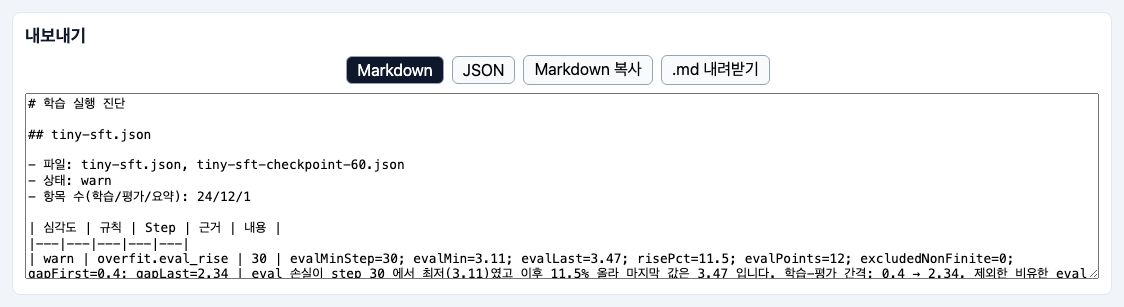
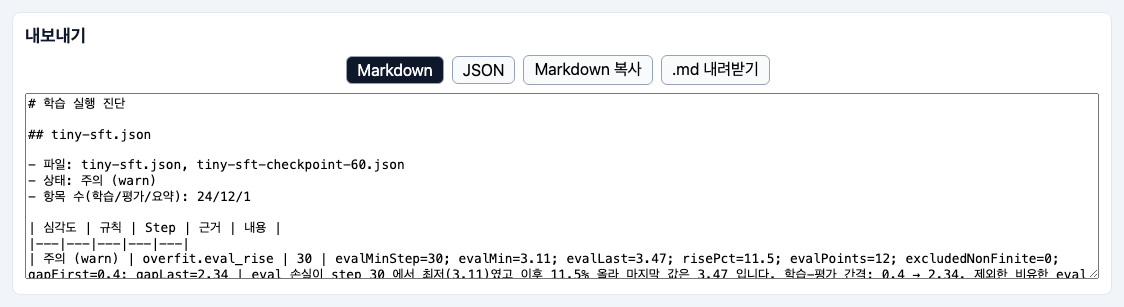
fix(report): localize severity labels in Korean Markdown export
Severity column and status line now match the on-screen badges, with the machine value in parentheses. README (both languages) documents the export format and the action field; bump to 0.1.3.

Changed region(s): [[0.0311, 0.8208, 0.9653, 0.9088], [0.0623, 0.557, 0.1557, 0.6156]]

diff --git a/tests/release.test.ts b/tests/release.test.ts
@@ -1,0 +1,44 @@
+import { readFileSync } from 'node:fs'
+import { describe, expect, it } from 'vitest'
+
+const read = (path: string): string => readFileSync(new URL(`../${path}`, import.meta.url), 'utf8')
+const pkg = JSON.parse(read('package.json')) as { version: string }
+const lock = JSON.parse(read('package-lock.json')) as { version: string; packages: Record<string, { version: string }> }
+const changelog = read('CHANGELOG.md')
+const headings = [...changelog.matchAll(/^## \[(\d+\.\d+\.\d+)\] - (\d{4}-\d{2}-\d{2})$/gm)]
+const versions = headings.map((m) => m[1])
+
+const cmp = (a: string, b: string): number => {
+  const [x, y] = [a.split('.').map(Number), b.split('.').map(Number)]
+  return x[0] - y[0] || x[1] - y[1] || x[2] - y[2]
+}
+
+describe('release alignment (AC-10)', () => {
+  it('package.json and package-lock.json carry the same version', () => {
+    expect(pkg.version).toMatch(/^\d+\.\d+\.\d+$/)
+    expect(lock.version).toBe(pkg.version)
+    expect(lock.packages[''].version).toBe(pkg.version)
+  })
+
+  it('the first CHANGELOG entry is the package version with a date', () => {
+    expect(versions[0]).toBe(pkg.version)
+  })
+
+  it('CHANGELOG versions are unique, descending and keep 0.1.2, 0.1.1, 0.1.0', () => {
+    expect(new Set(versions).size).toBe(versions.length)
+    expect([...versions].sort((a, b) => cmp(b, a))).toEqual(versions)
+    for (const v of ['0.1.2', '0.1.1', '0.1.0']) expect(versions).toContain(v)
+  })
+
+  it('README mentions of a version equal the package version', () => {
+    for (const file of ['README.md', 'README.ko.md']) {
+      const text = read(file)
+      const mentions = [...text.matchAll(/\bv(\d+\.\d+\.\d+)\b|trainer-state-lens@(\d+\.\d+\.\d+)/g)].map((m) => m[1] ?? m[2])
+      for (const m of mentions) expect(m, file).toBe(pkg.version)
+    }
+  })
+
+  it('keeps the security fix: the sample helper project is named make-samples', () => {
+    expect(read('tools/make-samples/pyproject.toml')).toMatch(/^name = "make-samples"$/m)
+  })
+})

diff --git a/src/core/report.ts b/src/core/report.ts
@@ -52,13 +52,18 @@ function cell(text: string): string {
   return text.replace(/\|/g, '\\|').replace(/\r?\n/g, ' ')
 }
 
+/** Severity or status label for Markdown: Korean adds the machine value in parentheses, English stays plain. */
+function severityLabel(lang: Lang, value: 'error' | 'warn' | 'info' | 'ok'): string {
+  return lang === 'ko' ? `${t(lang, `severity.${value}`)} (${value})` : value
+}
+
 /** Markdown export: one table per run (severity, rule, step, evidence, message). Deterministic. */
 export function toMarkdown(diagnoses: readonly Diagnosis[], lang: Lang = 'en'): string {
   const lines: string[] = [`# ${t(lang, 'report.title')}`, '']
   for (const { run, findings } of diagnoses) {
     lines.push(`## ${run.name}`, '')
     lines.push(`- ${t(lang, 'report.files')}: ${run.files.join(', ')}`)
-    lines.push(`- ${t(lang, 'report.status')}: ${runStatus(findings)}`)
+    lines.push(`- ${t(lang, 'report.status')}: ${severityLabel(lang, runStatus(findings))}`)
     lines.push(`- ${t(lang, 'report.entries')}: ${run.train.length}/${run.evals.length}/${run.summary.length}`, '')
     if (findings.length === 0) {
       lines.push(t(lang, 'report.noFindings'), '')
@@ -71,7 +76,7 @@ export function toMarkdown(diagnoses: readonly Diagnosis[], lang: Lang = 'en'): 
     for (const f of findings) {
       const message = `${findingMessage(lang, f)} ${findingAction(lang, f)}`.trim()
       lines.push(
-        `| ${f.severity} | ${f.rule} | ${f.step ?? ''} | ${cell(evidenceText(f.evidence))} | ${cell(message)} |`,
+        `| ${severityLabel(lang, f.severity)} | ${f.rule} | ${f.step ?? ''} | ${cell(evidenceText(f.evidence))} | ${cell(message)} |`,
       )
     }
     lines.push('')

diff --git a/tests/report.test.ts b/tests/report.test.ts
@@ -55,4 +55,36 @@ describe('export (AC-8)', () => {
     const quiet = diagnoseAll(loadRuns('synthetic-flat-jitter')).map((d) => ({ ...d, findings: [] }))
     expect(toMarkdown(quiet, 'en')).toContain('No findings.')
   })
+
+  it('Korean Markdown shows Korean severity with the machine value', () => {
+    const md = toMarkdown(diagnoses, 'ko')
+    expect(md).toContain('| 주의 (warn) | overfit.eval_rise | 30 |')
+    expect(md).toContain('| 오류 (error) | nonfinite.broken_run | 7 |')
+    expect(md).toContain('| 참고 (info) |')
+    expect(md).toContain('- 상태: 주의 (warn)')
+    expect(md).toContain('- 상태: 오류 (error)')
+    expect(md).toContain('- 상태: 정상 (ok)')
+    expect(md).not.toMatch(/^\| (error|warn|info|ok) \|/m)
+    expect(md).not.toMatch(/^- 상태: (error|warn|ok)$/m)
+    expect(md).toContain('| 정상 (ok) |')
+  })
+
+  it('English Markdown keeps plain severity values', () => {
+    const md = toMarkdown(diagnoses, 'en')
+    expect(md).toContain('| warn | overfit.eval_rise | 30 |')
+    expect(md).toContain('- Status: warn')
+    expect(md).not.toContain('(warn)')
+    expect(md).not.toContain('(error)')
+  })
+
+  it('JSON keeps machine severity values in both languages', () => {
+    for (const lang of ['en', 'ko'] as const) {
+      const report = JSON.parse(toJson(diagnoses, lang)) as JsonReport
+      expect(report.version).toBe(1)
+      expect(report.runs.map((r) => r.status)).toEqual(['warn', 'error', 'ok'])
+      for (const f of report.runs.flatMap((r) => r.findings)) {
+        expect(['error', 'warn', 'info', 'ok']).toContain(f.severity)
+      }
+    }
+  })
 })

diff --git a/tests/components.test.ts b/tests/components.test.ts
@@ -45,5 +45,6 @@ describe('components render without a browser', () => {
     const ko = renderToString(createElement(ExportPanel, { lang: 'ko', diagnoses }))
     expect(ko).toContain('내보내기')
     expect(ko).toContain('학습 실행 진단')
+    expect(ko).toContain('주의 (warn)')
   })
 })

diff --git a/README.ko.md b/README.ko.md
@@ -104,7 +104,18 @@ Markdown 은 실행마다 표 하나입니다. 발췌(스냅숏 테스트 `tests
 | warn | overfit.eval_rise | 30 | evalMinStep=30; evalMin=3.11; evalLast=3.47; risePct=11.5; ... | Eval loss was lowest at step 30 (3.11) and rose 11.5% to 3.47. ... |
 ```
 
-화면 언어를 한국어로 두면 내보내는 Markdown 도 한국어입니다. JSON 은 고정 스키마 `{ version, lang, runs: [{ name, status, files, entries: { train, eval, summary }, findings: [{ rule, severity, step, evidence, message }] }] }` 이고, 같은 입력은 항상 같은 출력을 냅니다.
+화면 언어를 한국어로 두면 내보내는 Markdown 도 한국어이고, 심각도 칸은 화면 배지와 같은 말 뒤에 기계용 값을 괄호로 붙입니다(같은 스냅숏, 한국어 내보내기 발췌):
+
+```markdown
+- 상태: 주의 (warn)
+
+| 심각도 | 규칙 | Step | 근거 | 내용 |
+|---|---|---|---|---|
+| 주의 (warn) | overfit.eval_rise | 30 | evalMinStep=30; evalMin=3.11; evalLast=3.47; risePct=11.5; ... | eval 손실이 step 30 에서 최저(3.11)였고 이후 11.5% 올라 마지막 값은 3.47 입니다. ... |
+| 참고 (info) | overfit.best_checkpoint_missing | 30 | bestStep=30; saveSteps=60 | 최적 eval step 30 의 체크포인트가 저장되지 않았고(save_steps 60) ... |
+```
+
+영어 내보내기와 JSON 은 그대로입니다. JSON 은 고정 스키마 `{ version, lang, runs: [{ name, status, files, entries: { train, eval, summary }, findings: [{ rule, severity, step, evidence, message, action }] }] }` 이고, 같은 입력은 항상 같은 출력을 냅니다.
 
 ## 진단 결과 읽는 법
 
@@ -216,7 +227,7 @@ flowchart LR
 
 ```bash
 npm install
-npm test            # vitest, 13개 파일, 107개 테스트
+npm test            # vitest, 14개 파일, 115개 테스트
 npm run typecheck   # tsc (테스트 포함)
 npm run build       # tsc -b && vite build, 결과는 dist/
 npm run lint        # oxlint

diff --git a/README.md b/README.md
@@ -104,7 +104,18 @@ The Markdown has one table per run. An excerpt (from the snapshot test `tests/__
 | warn | overfit.eval_rise | 30 | evalMinStep=30; evalMin=3.11; evalLast=3.47; risePct=11.5; ... | Eval loss was lowest at step 30 (3.11) and rose 11.5% to 3.47. ... |
 ```
 
-JSON uses a fixed schema: `{ version, lang, runs: [{ name, status, files, entries: { train, eval, summary }, findings: [{ rule, severity, step, evidence, message }] }] }`. The same input always gives the same output.
+With the UI language set to Korean, the exported Markdown is Korean too, and the severity column and the status line use the same words as the on-screen badges, with the machine value in parentheses (same snapshot, Korean export excerpt; `주의` means "caution", `참고` means "note"):
+
+```markdown
+- 상태: 주의 (warn)
+
+| 심각도 | 규칙 | Step | 근거 | 내용 |
+|---|---|---|---|---|
+| 주의 (warn) | overfit.eval_rise | 30 | evalMinStep=30; evalMin=3.11; evalLast=3.47; risePct=11.5; ... | eval 손실이 step 30 에서 최저(3.11)였고 이후 11.5% 올라 마지막 값은 3.47 입니다. ... |
+| 참고 (info) | overfit.best_checkpoint_missing | 30 | bestStep=30; saveSteps=60 | 최적 eval step 30 의 체크포인트가 저장되지 않았고(save_steps 60) ... |
+```
+
+English and JSON output are unchanged. JSON uses a fixed schema: `{ version, lang, runs: [{ name, status, files, entries: { train, eval, summary }, findings: [{ rule, severity, step, evidence, message, action }] }] }`. The same input always gives the same output.
 
 ## Reading the findings
 
@@ -216,7 +227,7 @@ Check each project's own documentation for what it supports today.
 
 ```bash
 npm install
-npm test            # vitest, 13 files, 107 tests
+npm test            # vitest, 14 files, 115 tests
 npm run typecheck   # tsc, including tests
 npm run build       # tsc -b && vite build, output in dist/
 npm run lint        # oxlint

diff --git a/CHANGELOG.md b/CHANGELOG.md
@@ -3,6 +3,12 @@
 All notable changes to this project are documented here.
 The format follows [Keep a Changelog](https://keepachangelog.com/en/1.1.0/) and the project uses [Semantic Versioning](https://semver.org/).
 
+## [0.1.3] - 2026-11-13
+
+### Fixed
+
+- Korean Markdown export: the severity column and the status line now use the same Korean labels as the screen badges, with the machine value in parentheses (for example `주의 (warn)`). English Markdown and JSON output are unchanged.
+
 ## [0.1.2] - 2026-11-13
 
 ### Security
